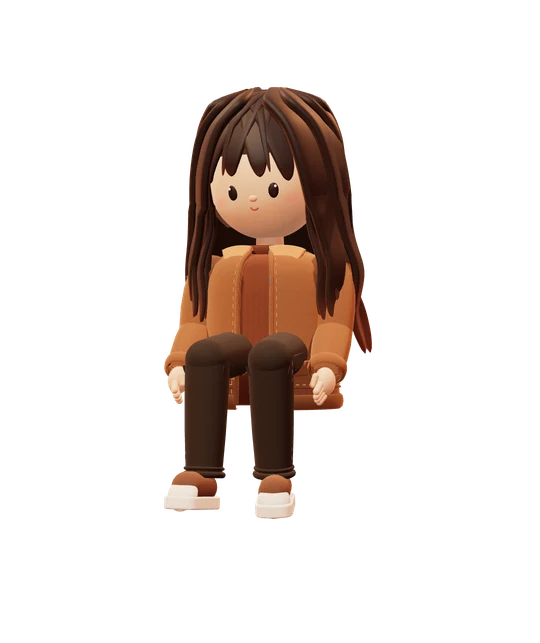
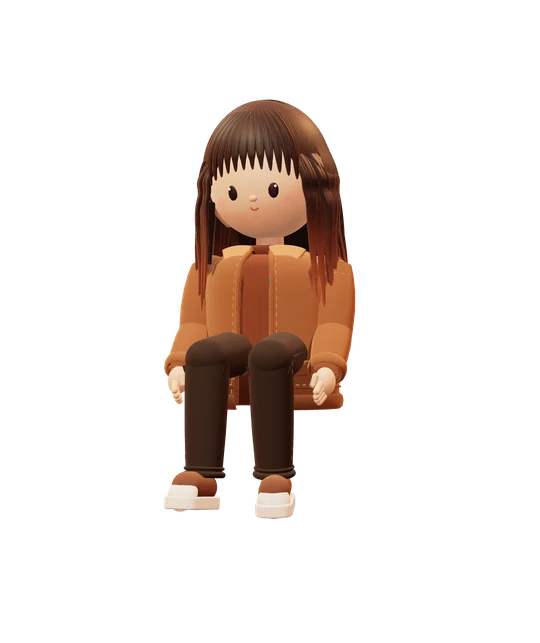
Mini Amber: refined hair, smoother motion, caption returns
Hair rebuilt after the reference: round smooth crown, thin see-through fringe, locks that fall in one
continuous line to mid-torso with fine strand lines. Springy joint motion and hair sway, softer clothing
folds, caption fades back in when she returns to the frame.

Claude-Session: https://claude.ai/code/session_01XghAZ28PoaK1BMikdNWsfT

Changed region(s): [[0.3259, 0.1244, 0.7111, 0.5599]]

diff --git a/src/scripts/pal3d.ts b/src/scripts/pal3d.ts
@@ -97,6 +97,16 @@ function fabricTexture(kind: 'rib' | 'twill' | 'knit', size = 128) {
   g.putImageData(img, 0, 0);
   const t = new THREE.CanvasTexture(c); t.wrapS = t.wrapT = THREE.RepeatWrapping; t.repeat.set(4, 4); return t;
 }
+/** fine strand grooves running along each lock (used as a bump map; u goes around the lock, v along it) */
+function strandTexture(size = 256) {
+  const c = document.createElement('canvas'); c.width = size; c.height = 8;
+  const g = c.getContext('2d')!;
+  for (let x = 0; x < size; x++) {
+    const n = .5 + .28 * Math.sin(x / size * Math.PI * 2 * 9) + .22 * Math.sin(x / size * Math.PI * 2 * 23 + 1.3) + (Math.random() - .5) * .35;
+    const v = Math.max(0, Math.min(255, n * 255)); g.fillStyle = `rgb(${v},${v},${v})`; g.fillRect(x, 0, 1, 8);
+  }
+  const t = new THREE.CanvasTexture(c); t.wrapS = t.wrapT = THREE.RepeatWrapping; return t;
+}
 function blushTexture() {
   const c = document.createElement('canvas'); c.width = c.height = 64;
   const g = c.getContext('2d')!, r = g.createRadialGradient(32, 32, 0, 32, 32, 32);
@@ -131,8 +141,8 @@ function makeMaterials() {
     shoe: new THREE.MeshPhysicalMaterial({ color: '#5a3c2a', roughness: .5, sheen: .3, sheenColor: new THREE.Color('#9a7060'), clearcoat: .25, clearcoatRoughness: .5 }),
     lace: new THREE.MeshPhysicalMaterial({ color: '#f4efe6', roughness: .8 }),
     sole: new THREE.MeshPhysicalMaterial({ color: '#2e221b', roughness: .7 }),
-    hair: new THREE.MeshPhysicalMaterial({ vertexColors: true, roughness: .62, sheen: .5, sheenColor: new THREE.Color('#c08260'), sheenRoughness: .45, clearcoat: .3, clearcoatRoughness: .45, side: THREE.DoubleSide }),
-    scalp: new THREE.MeshPhysicalMaterial({ color: '#2f1d17', roughness: .75, sheen: .4, sheenColor: new THREE.Color('#9a6a50'), side: THREE.DoubleSide }),
+    hair: new THREE.MeshPhysicalMaterial({ vertexColors: true, bumpMap: strandTexture(), bumpScale: 1.1, roughness: .58, sheen: .5, sheenColor: new THREE.Color('#c08260'), sheenRoughness: .45, clearcoat: .3, clearcoatRoughness: .45, side: THREE.DoubleSide }),
+    scalp: new THREE.MeshPhysicalMaterial({ color: '#24150f', roughness: .58, sheen: .5, sheenColor: new THREE.Color('#c08260'), clearcoat: .3, clearcoatRoughness: .45, bumpMap: (() => { const t = strandTexture(); t.repeat.set(16, 1); return t; })(), bumpScale: 1.1, side: THREE.DoubleSide }),
     eye: new THREE.MeshPhysicalMaterial({ color: '#2a1a14', roughness: .5, sheen: .3, sheenColor: new THREE.Color('#6a4a40') }),
     glint: new THREE.MeshBasicMaterial({ color: '#ffffff' }),
     lip: new THREE.MeshPhysicalMaterial({ color: '#b65a50', roughness: .6 }),
@@ -165,18 +175,18 @@ function mesh(geo: THREE.BufferGeometry, mat: THREE.Material, parent?: THREE.Obj
 const group = (parent: THREE.Object3D, pos: V3 = [0, 0, 0]) => { const g = new THREE.Group(); g.position.set(...pos); parent.add(g); return g; };
 
 /** A tapered, flattened hair clump along a curve. `centre(p)` gives the point the clump lies "on" (for its normal). */
-function clump(points: THREE.Vector3[], o: { w0: number; w1: number; t0: number; t1: number; centre: (p: THREE.Vector3) => THREE.Vector3; root: string; tip: string; seg?: number; ombre?: number }) {
+function clump(points: THREE.Vector3[], o: { w0: number; w1: number; t0: number; t1: number; centre: (p: THREE.Vector3) => THREE.Vector3; root: string; tip: string; seg?: number; ombre?: number; fullRoot?: boolean; groove?: number; toneVar?: number }) {
   const seg = Math.round((o.seg ?? 28) * 1.5), radial = 18;
   const curve = new THREE.CatmullRomCurve3(points, false, 'centripetal');
-  const pos: number[] = [], col: number[] = [], idx: number[] = [];
-  const tone = .86 + Math.random() * .3;   // each lock a slightly different shade, like painted strands
+  const pos: number[] = [], col: number[] = [], idx: number[] = [], uv: number[] = [];
+  const tone = 1 - (o.toneVar ?? .3) / 2 + Math.random() * (o.toneVar ?? .3);   // each lock a slightly different shade, like painted strands
   const cRoot = new THREE.Color(o.root).multiplyScalar(tone), cTip = new THREE.Color(o.tip).multiplyScalar(tone), c = new THREE.Color();
   for (let i = 0; i <= seg; i++) {
     const u = i / seg, P = curve.getPoint(u), T = curve.getTangent(u);
     const N = P.clone().sub(o.centre(P)).normalize();
     N.sub(T.clone().multiplyScalar(N.dot(T))).normalize();
     const B = new THREE.Vector3().crossVectors(T, N).normalize();
-    const taper = Math.pow(u, 1.25), tipRound = u > .9 ? Math.sqrt(Math.max(0, 1 - ((u - .9) / .1) ** 2)) : (u < .08 ? .35 + .65 * Math.sin(u / .08 * Math.PI / 2) : 1);
+    const taper = Math.pow(u, 1.25), tipRound = u > .9 ? Math.sqrt(Math.max(0, 1 - ((u - .9) / .1) ** 2)) : (u < .08 && !o.fullRoot ? .35 + .65 * Math.sin(u / .08 * Math.PI / 2) : 1);
     const w = (o.w0 + (o.w1 - o.w0) * taper) * tipRound + .0015, t = (o.t0 + (o.t1 - o.t0) * u) * tipRound + .001;
     const om = THREE.MathUtils.smoothstep(u, o.ombre ?? .5, 1);
     c.copy(cRoot).lerp(cTip, om);
@@ -185,8 +195,8 @@ function clump(points: THREE.Vector3[], o: { w0: number; w1: number; t0: number;
       // rounded-rectangle (superellipse) section: flat faces with soft edges, like sculpted ribbon locks
       const ca = Math.cos(a), sa = Math.sin(a), ex = .55;
       const p = P.clone().addScaledVector(B, Math.sign(ca) * Math.abs(ca) ** ex * w).addScaledVector(N, Math.sign(sa) * Math.abs(sa) ** ex * t);
-      const groove = .78 + .22 * Math.pow(Math.abs(Math.sin(a)), .5);   // edges darker = carved grooves between clumps
-      pos.push(p.x, p.y, p.z); col.push(c.r * groove, c.g * groove, c.b * groove);
+      const gs = o.groove ?? .22, groove = 1 - gs + gs * Math.pow(Math.abs(Math.sin(a)), .5);   // edges darker = carved grooves between clumps
+      pos.push(p.x, p.y, p.z); col.push(c.r * groove, c.g * groove, c.b * groove); uv.push(j / radial, u);
     }
   }
   for (let i = 0; i < seg; i++) for (let j = 0; j < radial; j++) {
@@ -196,6 +206,7 @@ function clump(points: THREE.Vector3[], o: { w0: number; w1: number; t0: number;
   const g = new THREE.BufferGeometry();
   g.setAttribute('position', new THREE.Float32BufferAttribute(pos, 3));
   g.setAttribute('color', new THREE.Float32BufferAttribute(col, 3));
+  g.setAttribute('uv', new THREE.Float32BufferAttribute(uv, 2));
   g.setIndex(idx); g.computeVertexNormals();
   return g;
 }
@@ -290,7 +301,7 @@ function buildFigure(M: Mats) {
     const k = side < 0 ? 'l' : 'r';
     const sh = J[k + 'sh'] = group(body, [side * .225, 1.11, -.005]);
     sh.scale.setScalar(.92);
-    { const pts: THREE.Vector3[] = []; for (let a = 0; a <= Math.PI * 2 + .01; a += .12) pts.push(v(Math.cos(a) * .078, -.03, Math.sin(a) * .078 * .95)); stitches(pts, sh); }
+    { const pts: THREE.Vector3[] = []; for (let a = 0; a <= Math.PI * 2 + .01; a += .12) pts.push(v(Math.cos(a) * .0745, -.03, Math.sin(a) * .0745 * .95)); stitches(pts, sh); }
     mesh(new THREE.SphereGeometry(.072, 24, 16), M.suede, sh, [-side * .018, -.005, 0], [1, 1, .95]);   // small cap, sunk into the torso so the shoulder line stays smooth
     mesh(lathe([[.066, .02], [.074, -.02], [.08, -.08], [.08, -.15], [.074, -.21], [.07, -.245]], 48), M.suede, sh, [0, 0, 0], [1, 1, .95]);
     const el = J[k + 'el'] = group(sh, [0, -.235, 0]);
@@ -356,50 +367,79 @@ function buildFigure(M: Mats) {
   const ROOT = '#2a1914', TIP = '#8f4e2e';
   mesh(new THREE.SphereGeometry(R + .012, 40, 24, Math.PI * 1.5 - 1.75, 3.5, 1.2, 1.2), M.scalp, head, [C.x, C.y, C.z - .006], [1.02, 1, 1]);
   // crown lift: hair sits a little higher on top of the head for volume (fades out by the temples)
-  const lift = (th: number) => .04 * Math.cos(Math.min(th, 1.4) / 1.4 * Math.PI / 2) ** 2;
-  const dome = (th: number) => 1 + .2 * Math.max(0, Math.cos(th)) ** 2;   // taller, rounder crown (an egg-shaped dome, not a flat top)
+  const lift = (th: number) => .04 * Math.cos(Math.min(th, 1.5) / 1.5 * Math.PI / 2) ** 1.2;
+  const dome = (th: number) => 1 + .07 * Math.max(0, Math.cos(th)) ** 2;   // taller, rounder crown (an egg-shaped dome, not a flat top)
   const sp = (th: number, ph: number, r: number) => { const rr = r + lift(th); return v(rr * Math.sin(th) * Math.sin(ph), C.y + rr * Math.cos(th) * dome(th), rr * Math.sin(th) * Math.cos(ph) * .97); };
+  const hairSwayPre = group(head, [0, 0, 0]);   // long hair swings with her movement (pivot at the neck top)
   // scalp cap following exactly the same dome as the locks, so their roots sit on it and the crown reads round
-  { const prof: [number, number][] = []; for (let th = 0; th <= 1.25; th += .05) { const q = sp(th, 0, R + .016); prof.push([Math.max(.0001, q.z / .97), q.y]); }
-    mesh(lathe(prof, 48), M.scalp, head, [0, 0, 0], [1, 1, .97]); }
+  { const prof = (a: number, b: number) => { const p: [number, number][] = []; for (let th = a; th <= b + 1e-6; th += .05) { const q = sp(th, 0, R + .016); p.push([Math.max(.0001, q.z / .97), q.y]); } return p; };
+    mesh(lathe(prof(0, .95), 48), M.scalp, head, [0, 0, 0], [1, 1, .97]);                          // crown
+    mesh(lathe(prof(.9, 1.25), 48, .8, Math.PI * 2 - 1.6), M.scalp, head, [0, 0, 0], [1, 1, .97]); }  // sides and back only: the forehead stays open under the thin fringe
+  // smooth back-of-head shell (like the sculpted crown in the reference): the long locks emerge from under it
+  { const prof: [number, number][] = []; for (let th = 0; th <= 1.72; th += .04) { const q = sp(th, 0, R + .017 + .03 * THREE.MathUtils.smootherstep(th, 1.0, 1.72)); /* flares to meet the locks' outline */ prof.push([Math.max(.0001, q.z / .97), q.y]); }
+    mesh(lathe(prof, 64, Math.PI - 1.95, 3.9), M.scalp, hairSwayPre, [0, 0, 0], [1, 1, .97]); }
   const onHead = () => C;
   const hairMesh = (g: THREE.BufferGeometry, parent: THREE.Object3D = head) => mesh(g, M.hair, parent);
-  const hairSway = group(head, [0, .02, -.02]);   // pivot near the nape; long hair swings with her movement
+  const hairSway = hairSwayPre;
   // Hair shape after the reference sculpt: smooth crown with a soft part, pointed wispy bangs that get longer
   // towards the sides (curtain), long face-framing pieces, and many long clumps that flare slightly and end in
   // tapered, gently waving tips. Each clump is darker at its edges, which reads as carved grooves.
   const rnd = (i: number) => (Math.sin(i * 12.9898) * 43758.5453) % 1;
-  const BANGS: [number, number, number][] = [   // [angle around the face, tip height (theta), width]
-    [-1.0, 1.72, .075], [-.62, 1.6, .088], [-.22, 1.52, .09], [.16, 1.56, .086], [.52, 1.64, .084], [.92, 1.76, .072],
-  ];
-  BANGS.forEach(([ph, tip, w], i) => {
-    const fan = ph * .16, part = .1;     // fan outward from a part just off centre
-    hairMesh(clump([sp(.1, part + ph * .15, R + .012), sp(.5, part * .5 + ph * .62, R + .024), sp(.95, ph * .9, R + .032), sp(tip - .2, ph + fan * .6, R + .038), sp(tip, ph + fan, R + .03)],
-      { w0: w, w1: .012, t0: .016, t1: .007, centre: onHead, root: ROOT, tip: '#4a2a1d', ombre: .75, seg: 26 }));
-    void i;
-  });
-  // a few fine wisps on top
-  [-.35, .3].forEach((ph) => hairMesh(clump([sp(.15, ph * .2, R + .03), sp(.7, ph * .8, R + .042), sp(1.25, ph, R + .044), sp(1.5, ph * 1.1, R + .04)],
-    { w0: .02, w1: .002, t0: .008, t1: .003, centre: onHead, root: ROOT, tip: '#5a3222', ombre: .6, seg: 18 })));
-  // long face-framing pieces in front of the shoulders
-  for (const s of [-1, 1]) for (const [ph, len, off, w] of [[1.1, -.58, 0, .12], [1.3, -.62, .03, .1], [.96, -.46, -.025, .05]] as [number, number, number, number][]) {
-    const P = s * ph;
-    hairMesh(clump([sp(.35, P * .55, R + .012), sp(1.05, P, R + .028), sp(1.6, P * 1.02, R + .034),
-      v(s * (.25 + off), .0, .11), v(s * (.28 + off), -.16, .13), v(s * (.27 + off), -.32, .15), v(s * (.3 + off), -.46, .14), v(s * (.29 + off), len, .13)],
-      { w0: w, w1: .003, t0: .02, t1: .006, centre: (p) => (p.y > .1 ? C : v(0, p.y, -.05)), root: ROOT, tip: TIP, ombre: .65, seg: 34 }), hairSway);
+  // Hair after the reference: every lock follows one continuous path — over the dome along its own meridian,
+  // then straight down past the face/shoulders with a gentle flare — so the outline flows from the crown without a
+  // step, and neighbouring locks run side by side instead of crossing. Bangs fall straight down from the front of the
+  // crown; a strand bump map adds the fine combed grooves.
+  const lockPath = (ph: number, o: { th0: number; r0: number; r: number; end: number; flare?: number; wave?: number; flick?: number; seed?: number }) => {
+    const pts: THREE.Vector3[] = [];
+    pts.push(sp(o.th0, ph, o.r0));
+    // over the crown the lock stays just under the smooth scalp shell (so the top reads as one clean dome, like the
+    // reference) and rises out of it around the back of the head, joining the outline without a step
+    // a long, shallow ramp out of the shell so the outline continues without a ledge
+    const ramp = (th: number) => th < 1.0 ? R - .03 : R - .03 + (o.r - R + .03) * THREE.MathUtils.smootherstep(th, 1.0, 1.75);
+    for (const th of [o.th0 + .35, .95, 1.2, 1.4, 1.6]) if (th > o.th0 + .1) pts.push(sp(th, ph, ramp(th)));
+    pts.push(sp(1.75, ph, o.r));
+    const top = sp(Math.PI / 2, ph, o.r + .003);
+    const r0 = Math.hypot(top.x, top.z / .97), seed = o.seed ?? 0;
+    const steps = 5;
+    for (let k = 1; k <= steps; k++) {
+      const f = k / steps, y = top.y + (o.end - top.y) * f;
+      const r = r0 + (o.flare ?? .05) * f * f + (o.wave ?? .006) * Math.sin(f * 7 + seed);
+      const a = ph + (o.wave ?? .006) * 2 * Math.sin(f * 5 + seed * 1.7) + (o.flick ?? 0) * f ** 3;
+      pts.push(v(Math.sin(a) * r, y, Math.cos(a) * r * .97));
+    }
+    return pts;
+  };
+  const sideOf = (p: THREE.Vector3) => v(0, p.y > C.y ? p.y * .2 + C.y * .8 : p.y, 0);   // lock normals face away from the head / the fall axis
+  // bangs: straight down from the front of the crown, roots a little apart, tips at the brows; longer at the sides
+  const bangs = (n: number, spread: number, layer: number, lens: number[]) => {
+    for (let i = 0; i < n; i++) {
+      const u = -1 + 2 * i / (n - 1), side = Math.abs(u);
+      const ph = u * spread;
+      const tip = 1.43 + layer * .015 + side * side * .2 + lens[i % lens.length] * .12;   // a neat, gently curved fringe line
+      const pts = [sp(.16, ph * .4, R - .004), sp(.55, ph * .8, R + .012), sp(.95, ph * .96, R + .02), sp(1.22, ph, R + .021), sp(tip - .14, ph * 1.005, R + .018), sp(tip, ph * 1.01, R + .015)];
+      hairMesh(clump(pts, { w0: .028, w1: .003, t0: .007, t1: .003, centre: onHead,
+        root: '#2c1912', tip: layer ? '#4e2e1d' : '#462919', ombre: .85, seg: 40, groove: .1, toneVar: .1 }));
+    }
+  };
+  bangs(12, .76, 0, [.04, -.02, .05, .0, .06, .02, .05, -.01, .04, .02, .03, -.01]);   // one thin layer; the forehead shows between strands
+  // face-framing curtain locks: from the side of the crown straight down past the cheeks to the chest
+  for (const sg of [-1, 1]) for (const [ph, end, w, seed] of [[.92, -.28, .07, 1], [1.06, -.32, .08, 2.3], [1.22, -.34, .085, 3.1]] as [number, number, number, number][]) {
+    hairMesh(clump(lockPath(sg * ph, { th0: .2, r0: R - .05, r: R + .03, end, flare: .02, wave: .002, flick: 0, seed }),
+      { w0: w * .85, w1: .0015, t0: .014, t1: .004, centre: sideOf, root: ROOT, tip: TIP, ombre: .62, seg: 40, groove: .14 }), hairSway);
   }
-  // dark inner shell so the panels never look see-through, then broad ribbon panels with S-curves
-  // (kept short and inside the panels so it never peeks out below the hair over the jacket)
-  mesh(new THREE.CylinderGeometry(.262, .31, .4, 48, 1, true, Math.PI * .5 + .2, Math.PI * 2 - .4 - Math.PI * .7), new THREE.MeshPhysicalMaterial({ color: '#3a2418', roughness: .85, side: THREE.DoubleSide }), hairSway, [0, -.06, -.02], [1.04, 1, .74]);
-  const n = 9;
-  for (let i = 0; i < n; i++) {
-    const t = -1 + 2 * i / (n - 1), ph = Math.PI + t * 2.0;
-    const len = -.52 - .06 * Math.abs(rnd(i + 3)) - (Math.abs(t) < .4 ? .05 : 0);
-    const sway = .03 * Math.sin(i * 2.3), flick = (i % 3 - 1) * .05;
-    const rr = (y: number) => (y > .02 ? R + .03 : .3 + (-.02 - y) * .12);
-    const fall = (y: number, k = 0) => v(Math.sin(ph) * rr(y) * 1.05 + k, y, Math.cos(ph) * rr(y) * .76 - .03);
-    hairMesh(clump([sp(.22, ph, R + .012), sp(.9, ph, R + .026), sp(1.5, ph, R + .034), fall(-.04), fall(-.2, sway), fall(-.38, -sway), fall(len, flick)],
-      { w0: .19 + .03 * Math.abs(rnd(i)), w1: .03, t0: .03, t1: .014, centre: (p) => (p.y > .1 ? C : v(0, p.y, 0)), root: ROOT, tip: TIP, ombre: .65, seg: 36 }), hairSway);
+  // dark inner shell so the panels never look see-through
+  mesh(new THREE.CylinderGeometry(.262, .29, .26, 48, 1, true, Math.PI * .5 + .2, Math.PI * 2 - .4 - Math.PI * .7), new THREE.MeshPhysicalMaterial({ color: '#2e1c14', roughness: .85, side: THREE.DoubleSide }), hairSway, [0, .0, -.02], [1.04, 1, .74]);
+  // long hair: an inner layer of broad locks and an outer layer of thinner ones, all following the same smooth fall
+  const NL0 = 12, NL1 = 20;
+  for (let i = 0; i < NL0; i++) {
+    const t = -1 + 2 * i / (NL0 - 1), ph = Math.PI + t * 1.75;
+    hairMesh(clump(lockPath(ph, { th0: .14, r0: R - .05, r: R + .026, end: -.3 - .04 * Math.abs(rnd(i + 3)) - (Math.abs(t) < .5 ? .03 : 0), flare: .025, wave: .007, flick: (((i * 7) % 5) - 2) * .02, seed: i }),
+      { w0: .11, w1: .016, t0: .022, t1: .01, centre: sideOf, root: ROOT, tip: TIP, ombre: .62, seg: 40, groove: .16 }), hairSway);
+  }
+  for (let i = 0; i < NL1; i++) {
+    const t = -1 + 2 * i / (NL1 - 1), ph = Math.PI + t * 1.95 + rnd(i + 90) * .03;
+    hairMesh(clump(lockPath(ph, { th0: .16 + Math.abs(rnd(i + 11)) * .08, r0: R - .05, r: R + .04, end: -.33 - .06 * Math.abs(rnd(i + 53)) - (Math.abs(t) < .45 ? .03 : 0), flare: .035, wave: .009, flick: (((i * 7 + 3) % 5) - 2) * .03, seed: i * 1.3 }),
+      { w0: .07 + .02 * Math.abs(rnd(i)), w1: .0015, t0: .016, t1: .005, centre: sideOf, root: ROOT, tip: TIP, ombre: .62, seg: 44 }), hairSway);
   }
   // a soft highlight band on the crown
   mesh(new THREE.TorusGeometry(.2, .012, 8, 40, Math.PI * .7), new THREE.MeshBasicMaterial({ color: '#ffffff', transparent: true, opacity: .1, depthWrite: false }), head, [0, C.y + .1, .03], [1, 1, .9], [-1.05, 0, Math.PI * .15]);
